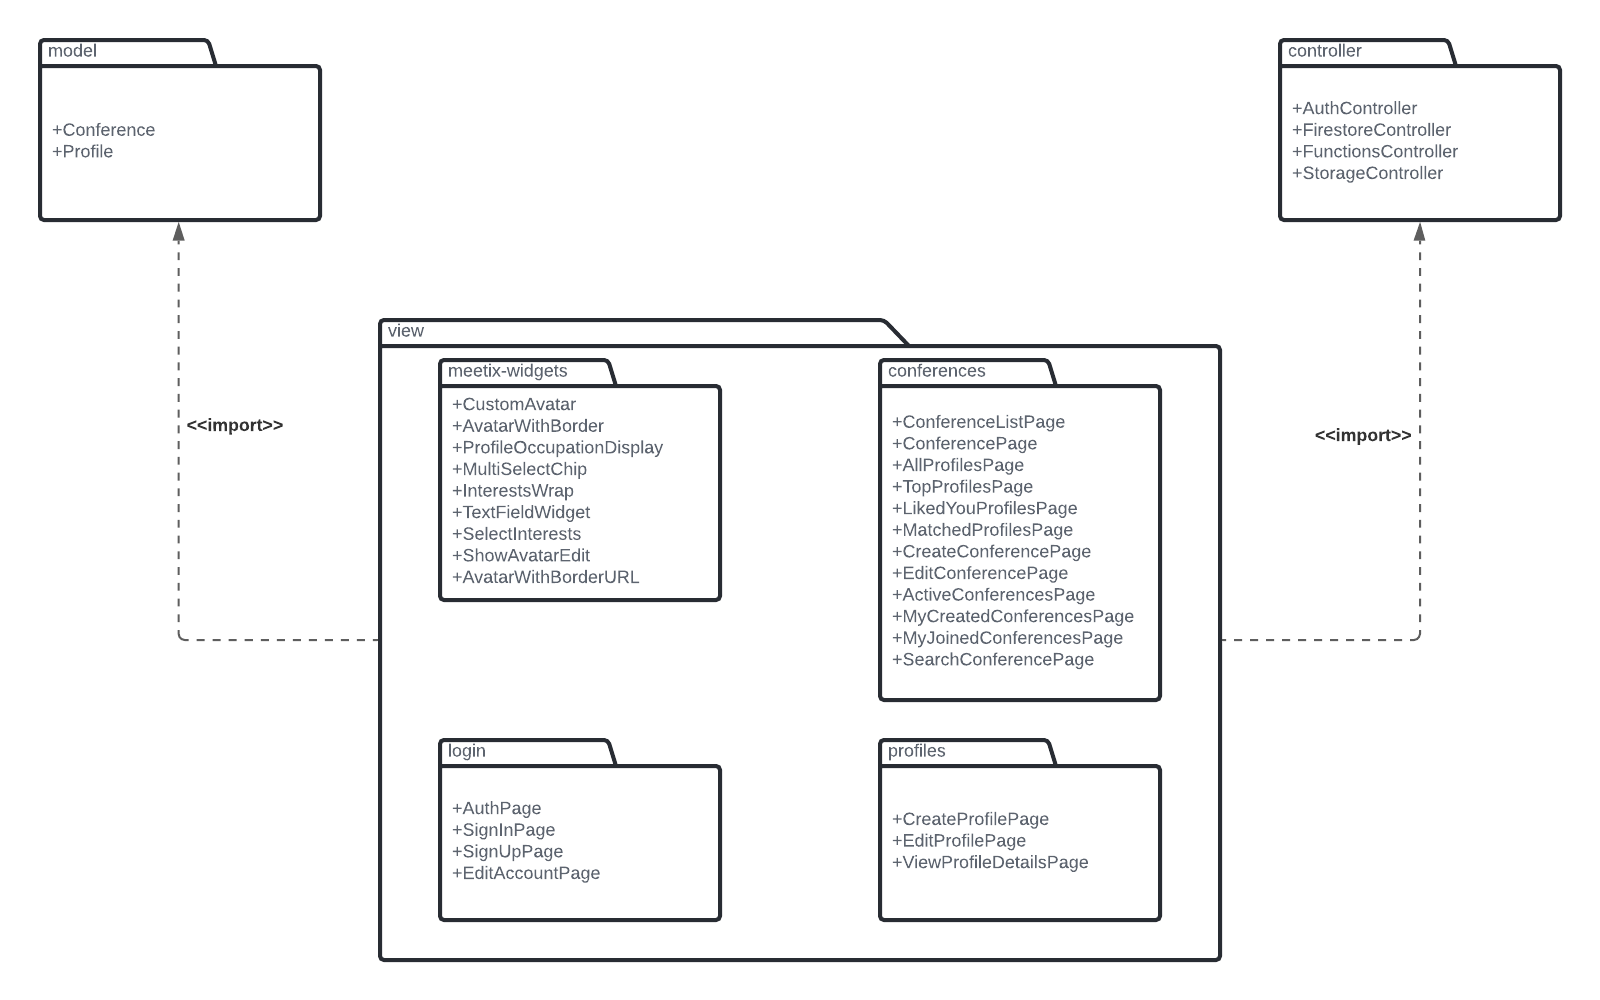
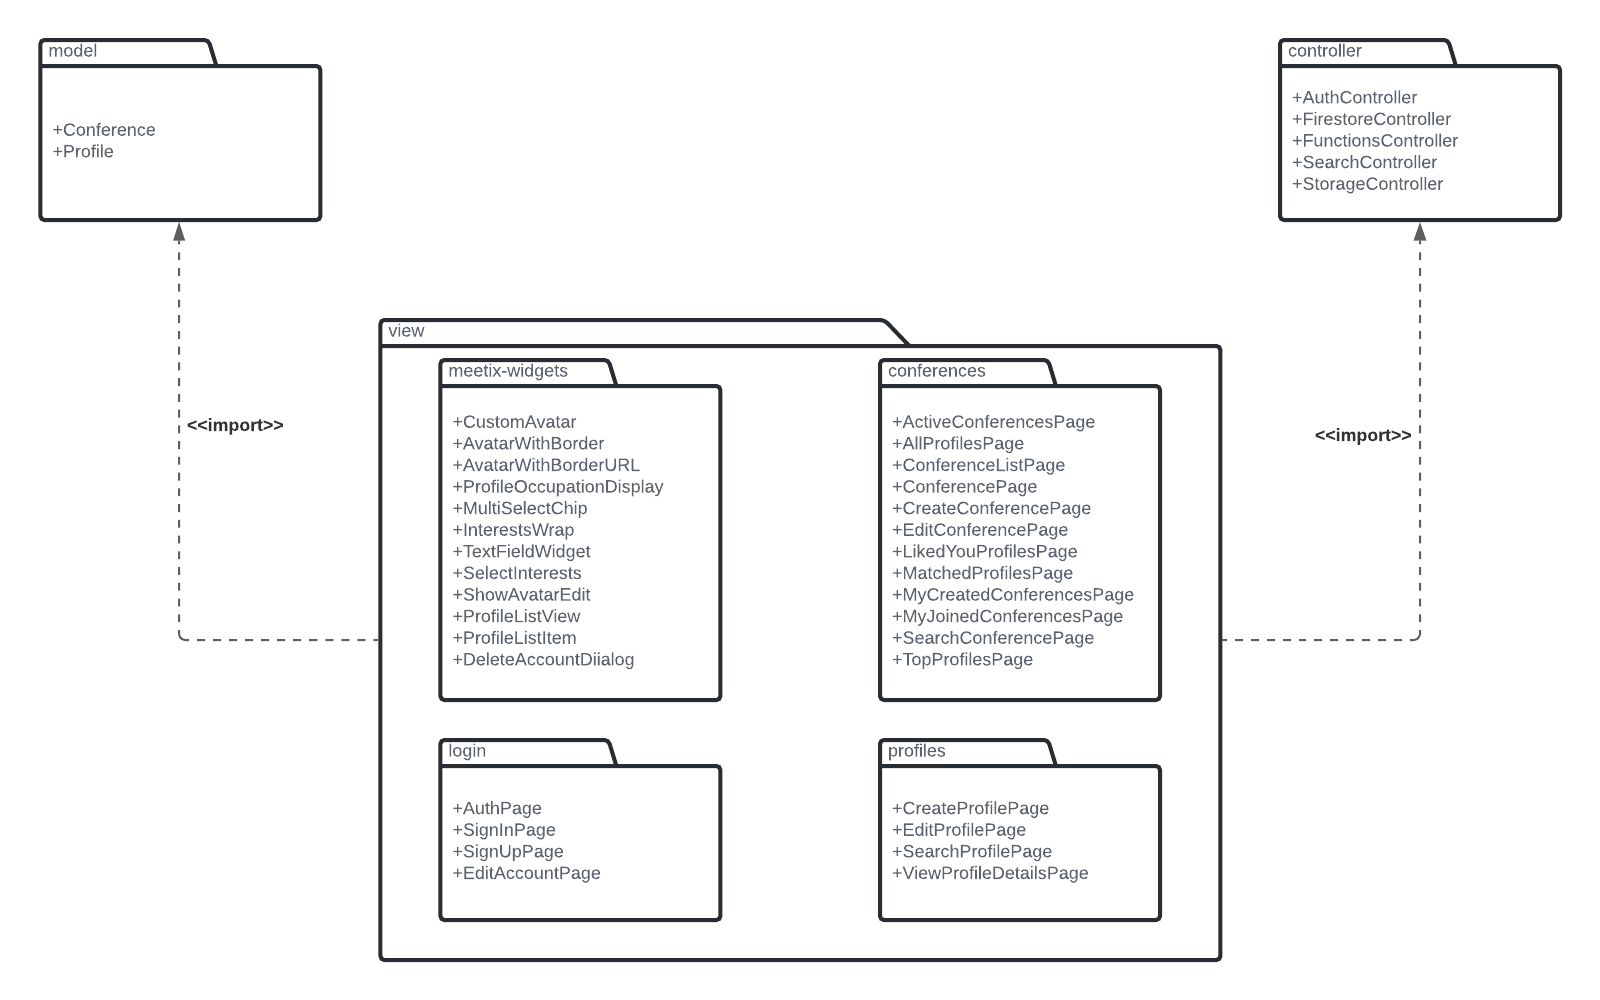
Report tweaks in diagrams

diff --git a/README.md b/README.md
@@ -1210,27 +1210,27 @@ We decided to use the MVC architecture pattern which splits the code into three 
 
 ![Package diagram](./img/package-diagram.png)
 
-In this diagram it shows that we organized our applications into three big packages, corresponding to the MVC architecture parts. Besides that, since the view part is the biggest in our application we decided to also divide it into packages.
+Our application has three big packages, corresponding to the MVC architecture parts. We also divided the view package into smaller, more manageable, sub-packages, divided by functionality.
 
-The first, meetix-widgets, is where we have the code for all the personalized widgets we've created. Then the login package has the pages that correspond to the account. There is, then, a conference package where all conference-related pages are kept. For last, the profiles package contains the pages that correspond to everything that concerns the profiles.
+The meetix-widgets package contains widgets implementing custom elements that are reused in the other packages.
 
 ---
 
 ## Physical architecture
 
-![Physical architecture](./img/physical_architecture.png)
-
 In this subsection, it is documented the high-level physical structure decisions made in our software system (machines, connections, software components installed, and their dependencies).
 
 Before starting to implement the application, we needed to decide the programming language: Flutter was the obvious choice since it was recommended by the professors and is one of the most prominent mobile development frameworks.
 
-For the database server, we chose Firebase as it is simple to set up and easy to integrate with Flutter.
+The following diagram details the physical architecture of our project:
 
-The user installs the Meetix app on his smartphone, serving as a client and the app communicates, through HTTPS requests, with the firebase server where the database is stored, handling the communication of the API with it, accessing and adding all the information needed for the app's flow.
+![Physical architecture](./img/physical_architecture.png)
 
-To avoid large data processing workloads in the app, causing it to use more battery and provide a worse overall user experience, we offloaded some logic to the backend using Firebase Cloud Functions. Namely, we use this component for the interest matching algorithm. We also use it for ensuring data integrity, using functions as triggers for our database.
+For the backend, we chose Firebase as it is simple to set up and easy to integrate with Flutter. To avoid large data processing workloads in the app, we offloaded some logic to the backend using Cloud Functions - namely the interest matching algorithm. We also use it to ensure data integrity, using functions as database triggers.
 
-To allow the user to search through the database information, we connected to the Algolia server, a full-text search provider. This allows us to not perform heavy workloads locally on the device and provide more comprehensive search results.
+To allow the user to search through the database information, we connected to the Algolia server, a full-text search provider. This allows us to avoid heavy workloads on the device and provide more comprehensive search results.
+
+Communication with these services uses HTTPS requests. Therefore, to use our app, the user needs an internet connection.
 
 ---
 
